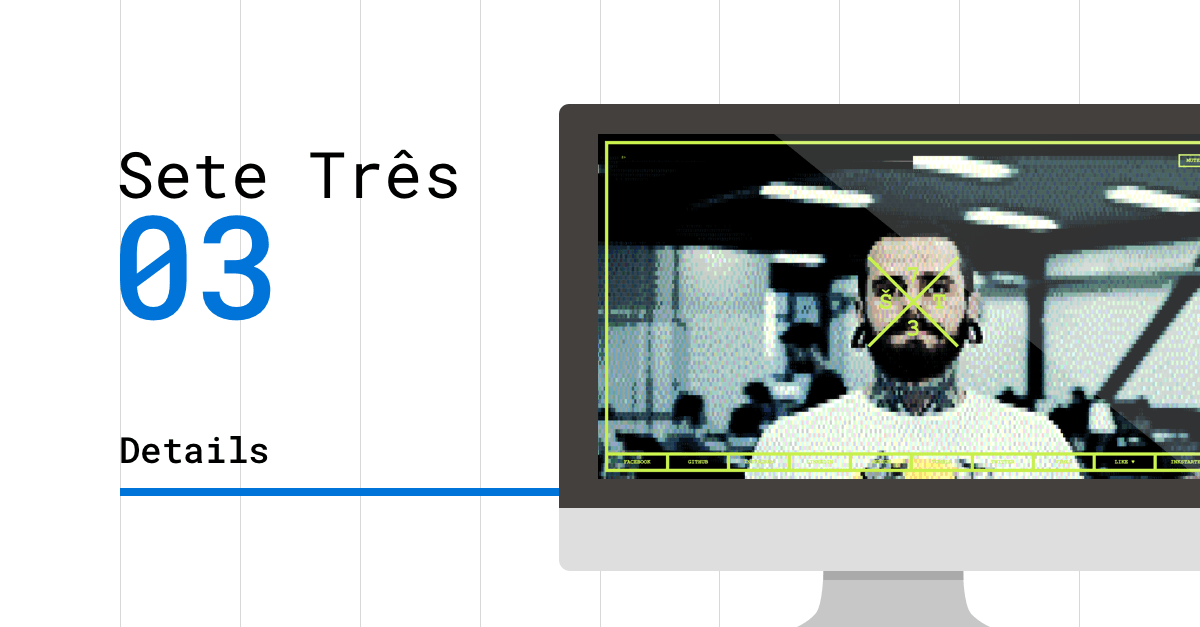
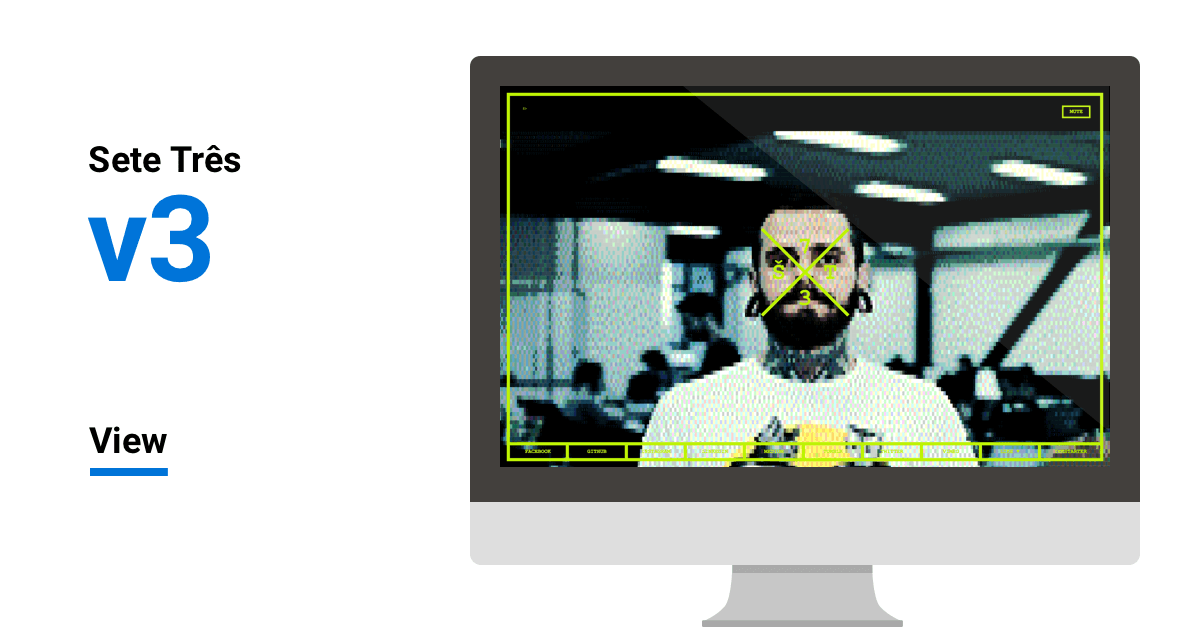
WIP

diff --git a/README.md b/README.md
@@ -1,8 +1,7 @@
-v3 [![Github License](https://img.shields.io/github/license/setetres/v3.svg)](https://github.com/setetres/v3/blob/master/LICENSE)
-==
-
-| [![v3](https://setetres.s3.amazonaws.com/setetres.st/img/share-v3.png?v=1&raw=true)](http://v3.setetres.st) |
+| [![v3](https://setetres.s3.amazonaws.com/setetres.st/img/share-v3.png?v=2&raw=true)](http://v3.setetres.st) |
 | ----------------------------------------------------------------------------------------------------------- |
+
+[![Github License](https://img.shields.io/github/license/setetres/v3.svg)](https://github.com/setetres/v3/blob/master/LICENSE)
 
 License
 -------
